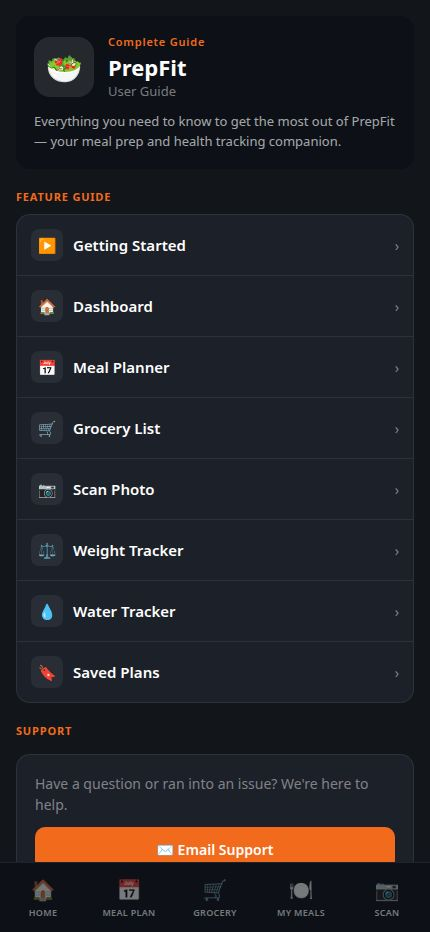
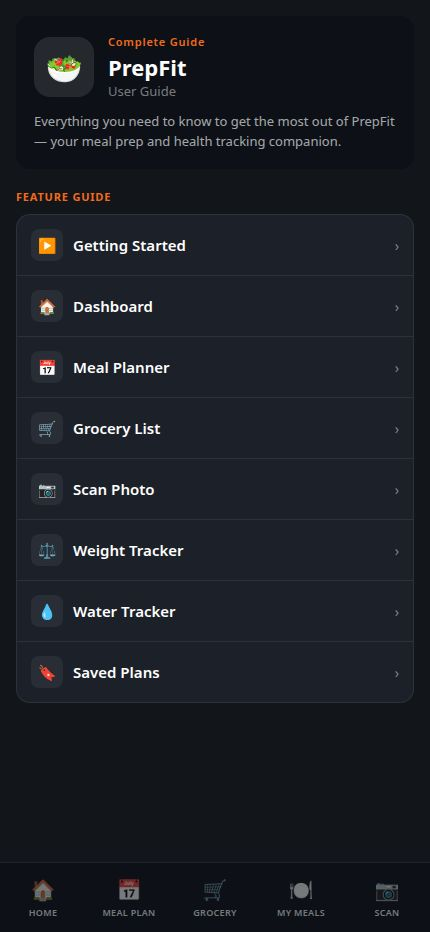
Remove email support section from user guide
Removes the "Support" section and related email/website links from the user guide component and HTML mockup.

Replit-Commit-Author: Agent
Replit-Commit-Session-Id: 366c8a42-eaa5-40fb-9545-b218c470b2f4
Replit-Commit-Checkpoint-Type: full_checkpoint
Replit-Commit-Event-Id: 874cb403-cf84-46e1-9b2e-058cd5d9600a
Replit-Commit-Screenshot-Url: https://storage.googleapis.com/screenshot-production-us-central1/840360d6-55f0-4f6a-9af5-ecb5804a7758/366c8a42-eaa5-40fb-9545-b218c470b2f4/FvdRaQW
Replit-Helium-Checkpoint-Created: true

Changed region(s): [[0.0302, 0.7779, 0.9372, 0.9335], [0.7256, 0.809, 0.7558, 0.8401]]

diff --git a/artifacts/prepfit-android/app/(tabs)/guide.tsx b/artifacts/prepfit-android/app/(tabs)/guide.tsx
@@ -125,28 +125,6 @@ export default function GuideScreen() {
         ))}
       </View>
 
-      {/* Support */}
-      <Text style={s.sectionLabel}>Support</Text>
-      <View style={s.supportCard}>
-        <Text style={s.supportText}>
-          Have a question or ran into an issue? We're here to help.
-        </Text>
-        <Pressable
-          style={s.supportBtn}
-          onPress={() => Linking.openURL("mailto:support@prepfit.fit")}
-        >
-          <Feather name="mail" size={16} color="#fff" />
-          <Text style={s.supportBtnText}>Email Support</Text>
-        </Pressable>
-        <Pressable
-          style={[s.supportBtn, s.supportBtnOutline]}
-          onPress={() => Linking.openURL("https://prepfit.fit")}
-        >
-          <Feather name="globe" size={16} color={colors.primary} />
-          <Text style={[s.supportBtnText, { color: colors.primary }]}>Visit prepfit.fit</Text>
-        </Pressable>
-      </View>
-
       <View style={{ height: 40 }} />
     </ScrollView>
   );

diff --git a/artifacts/meal-prep/public/app-screens.html b/artifacts/meal-prep/public/app-screens.html
@@ -1350,11 +1350,7 @@
       </div>
     </div>
 
-    <div class="guide-section">Support</div>
-    <div class="support-card">
-      <div class="support-text">Have a question or ran into an issue? We're here to help.</div>
-      <div class="support-btn primary">✉ Email Support</div>
-      <div class="support-btn outline">🌐 Visit prepfit.fit</div>
+    <div class="support-card" style="display:none"><!-- support removed -->
     </div>
   </div>
 
